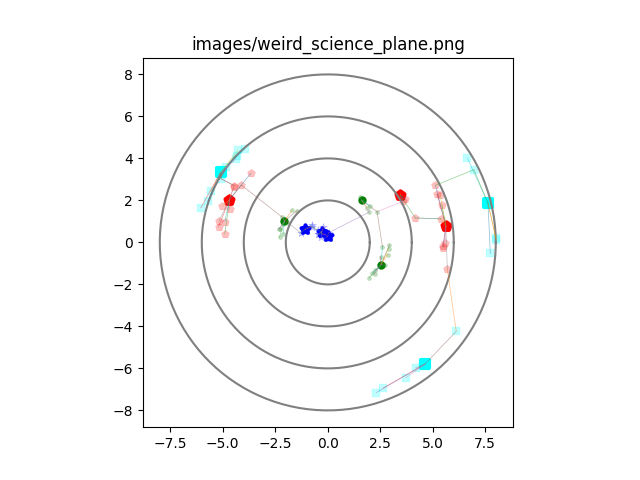
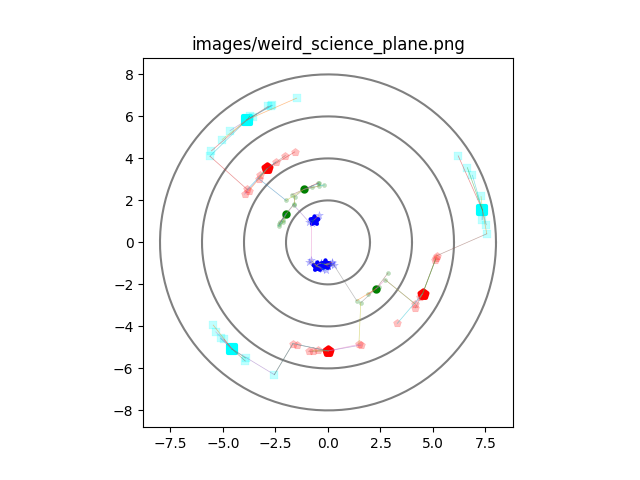
updated deltas to keep nodes away from boundaries

diff --git a/rattle_snake/plane_map.py b/rattle_snake/plane_map.py
@@ -169,6 +169,9 @@ class PlaneMap:
 
         self.draw_circles()
 
+        # this delta keeps the generated nodes farther away from the boundary
+        boundary_delta = 0.3
+
         stratum_num = 0
         # node id is the primary key of the nodes table
         node_id = 1
@@ -179,7 +182,9 @@ class PlaneMap:
 
             # generate the pop centers
             for i in range(k):
-                length = np.random.uniform(bounds[0], bounds[1])
+                length = np.random.uniform(
+                    bounds[0] + boundary_delta, bounds[1] - boundary_delta
+                )
                 print(f"length: {length}")
                 angle = np.pi * np.random.uniform(0, 2)
 
@@ -229,7 +234,7 @@ class PlaneMap:
                 num_support = np.random.randint(min_support, max_support + 1)
                 for _ in range(num_support):
                     # controls how close the points are
-                    delta = 0.2
+                    delta = 0.1
                     l = np.random.uniform(length - delta, length + delta)
                     a = np.random.uniform(angle - np.pi / 8, angle + np.pi / 8)
 
@@ -327,7 +332,6 @@ class PlaneMap:
             G.add_edge(cluster_id_1, cluster_id_2)
 
         cluster_dict = {c.cluster_id(): c for c in self.clusters}
-        print(cluster_dict)
         # if the clusters form a disconnected graph
         # keep adding edges until they are connected
         while not nx.is_connected(G):

diff --git a/README.md b/README.md
@@ -101,8 +101,10 @@ Third option, translate this project to Elixir
   are connected in the sense that there is a path from each
   node to any other node.
   
-  Suppose there are 4 clusters. Then we can check if all clusters
-  are connected 
+## November 23, 2022
+
+- Add minimum distance between population centers
+  
   
 ## Notes for improvement
 
